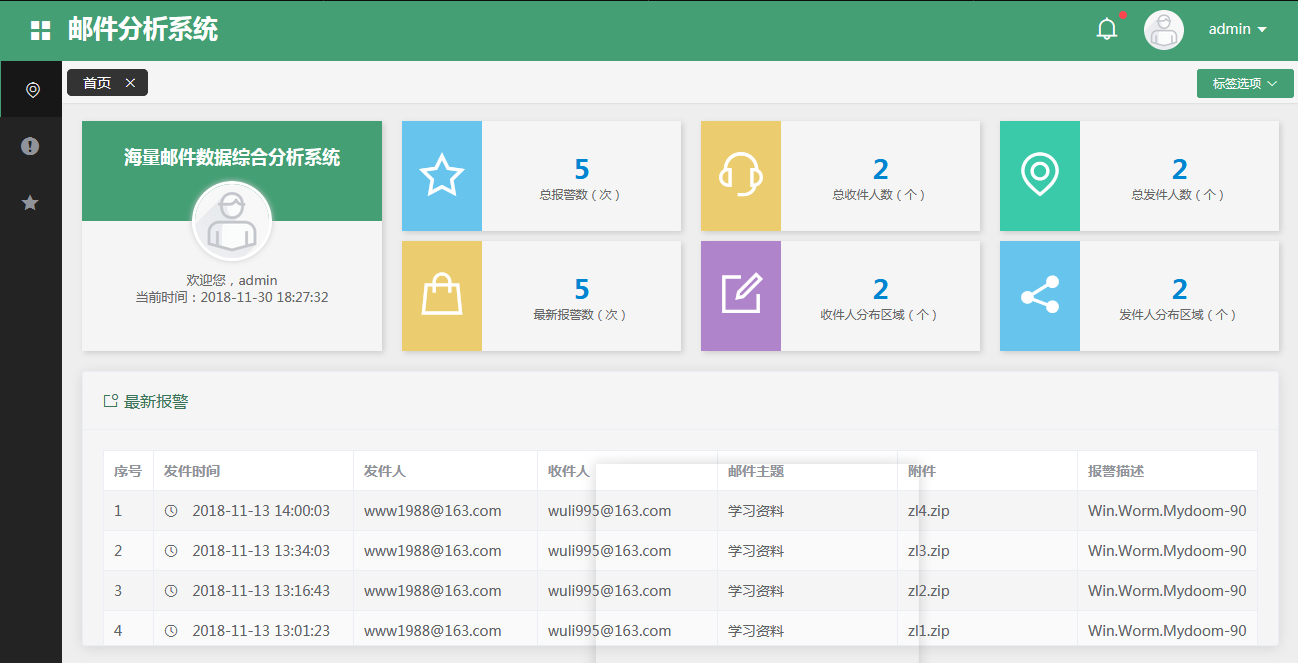
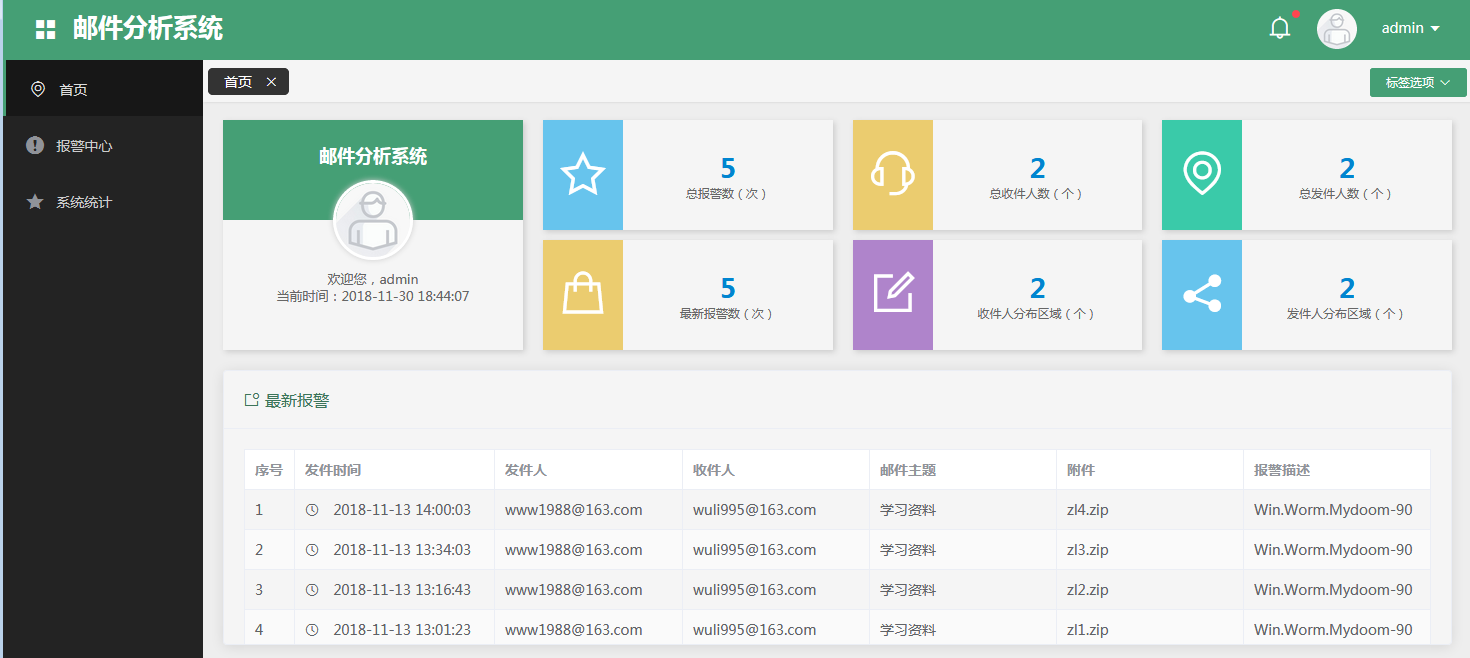
update

diff --git a/src/components/page/Home.vue b/src/components/page/Home.vue
@@ -4,7 +4,7 @@
     <!--用户卡片-->
     <div class="stat-user">
       <div class="stat-user__title">
-        海量邮件数据综合分析系统
+        邮件分析系统
       </div>
       <div class="stat-user__detail">
         <p>欢迎您，{{username}}</p>
